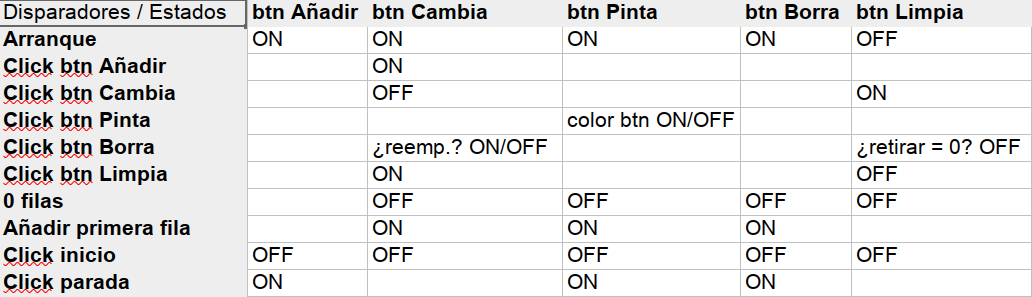
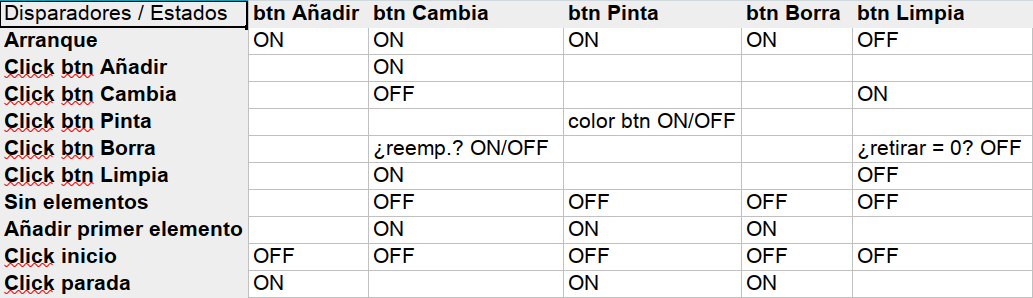
logica

diff --git a/_posts/2022-04-30-logica-interactiva.md b/_posts/2022-04-30-logica-interactiva.md
@@ -23,7 +23,9 @@ Mediante una tabla en una sencilla hoja de cálculo podemos contabilizar en el e
 
 ![Decisiones](/assets/img/tabla-disparadores-estados.png){: .mx-auto.d-block :}
 
-Esta tabla resumida incluye sólo la interacción de estados de los botones, anotando en cada celda el estado de cada botón según los disparadores indicados al principio de cada fila. A la hora de pasar a la fase de codificación, nos será fácil determinar si hemos implementado todas y cada una de las interacciones posibles reflejadas en la tabla. Cuando tengas ante ti un abanico de opciones inabarcables, esta puede ser una buena opción para salir del atolladero.
+«Arranque» se refiere al estado de los botones al inicio. «Click btn...» corresponde a la pulsación de cada uno de los cinco botones. «Sin elementos» corresponde a la situación en la que se han borrado todos los elementos. «Añadir primer elemento» corresponde a los cambios a realizar cuando esta condición se presenta. Por último, «Click de inicio» y «Click de parada» corresponde al estado de los botones cuando los pulsamos y cuando estos terminan de realizar su tarea asignada. Como se aprecia, los botones son desactivados al pulsarlos para impedir que puedan ser pulsados de nuevo en tanto no terminen su ejecución, momento en el que (algunos de ellos) son reactivados.
+
+Esta tabla resumida incluye sólo la interacción de estados de los botones, -obviando el estado de las variables para no complicar el ejemplo-, anotando en las celdas de cada columna el estado del botón según los disparadores indicados al principio de cada fila. A la hora de pasar a la fase de codificación, nos será fácil determinar si hemos implementado todas y cada una de las interacciones posibles reflejadas en la tabla. Cuando tengas ante ti un abanico de opciones inabarcables, esta puede ser una solución para salir del atolladero.
 
 * Ver el [ejercicio interactivo on-line](https://javguerra.github.io/02-bootcamp-fs-javascript/12-nodos.html).
 * Descargar la tabla de decisiones completa del ejercicio en formato [.ods (Open Document)](https://javguerra.github.io/02-bootcamp-fs-javascript/entregas/12-nodos-tabla.ods) o [.xls (Excel)](https://javguerra.github.io/02-bootcamp-fs-javascript/entregas/12-nodos-tabla.xls).
